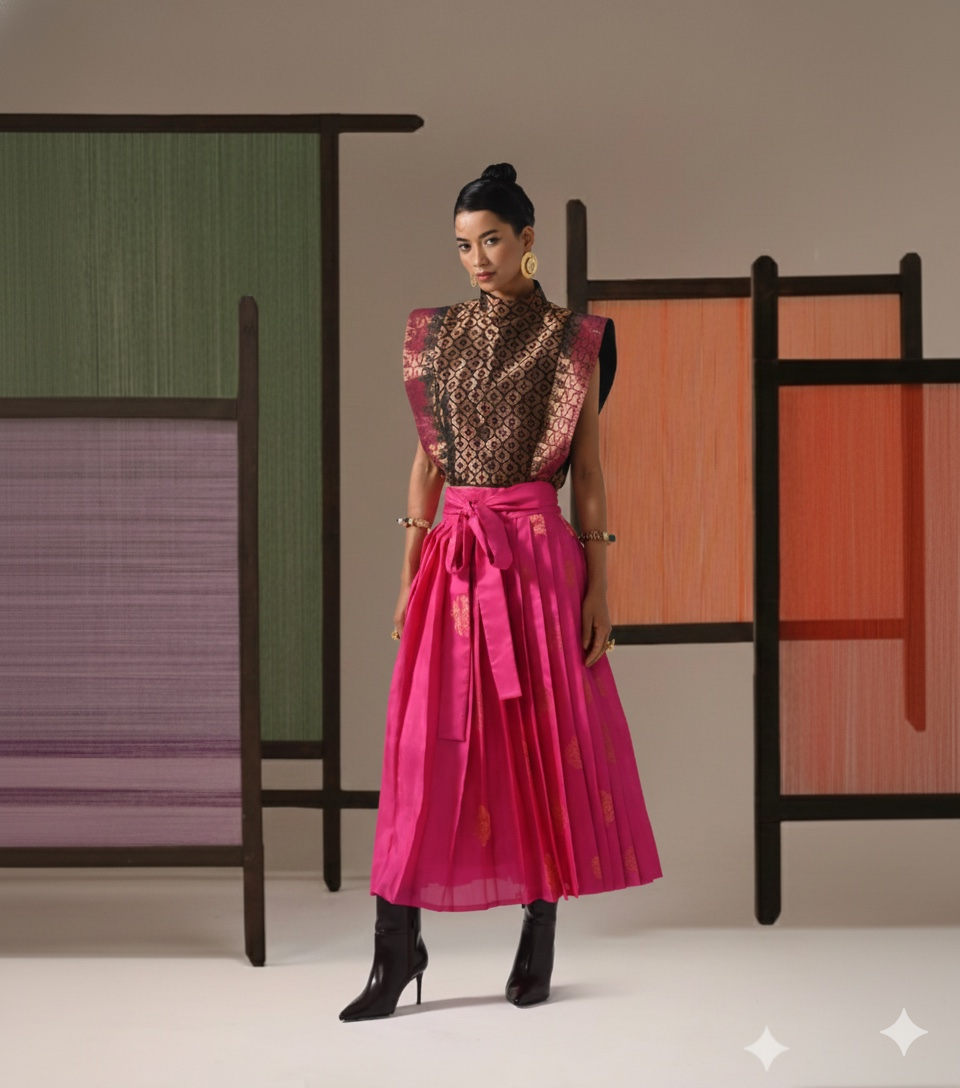
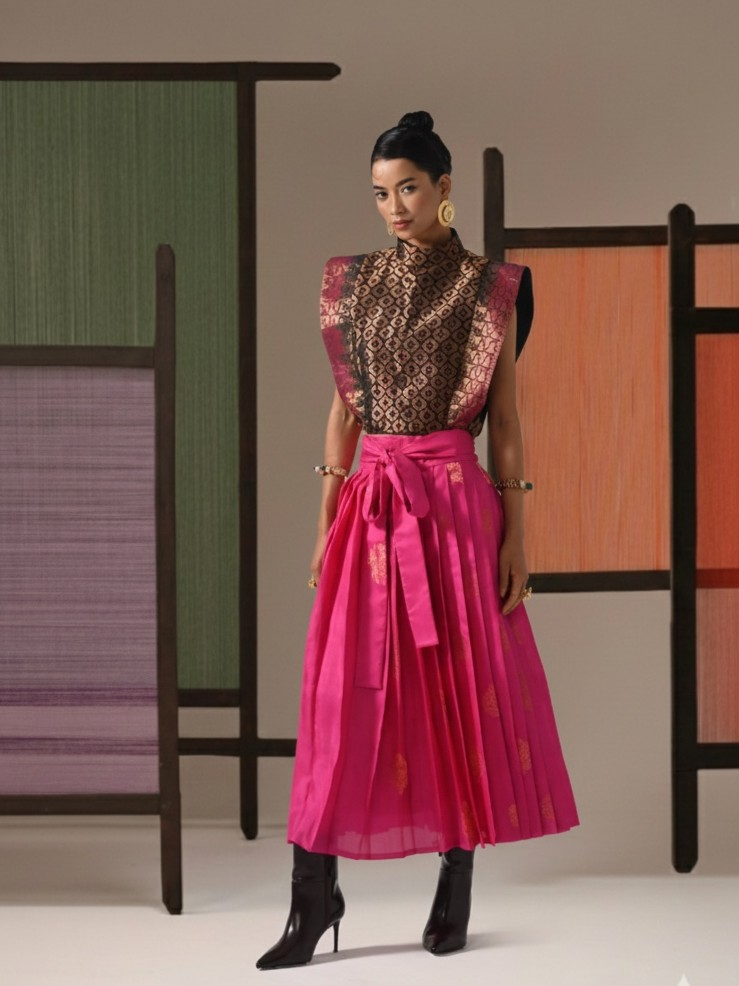
update

diff --git a/client/src/pages/StyleCollection.jsx b/client/src/pages/StyleCollection.jsx
@@ -8,9 +8,9 @@ import dresses from "../assets/images/dresses.webp";
 import skirtnpants from "../assets/images/skirtndtrouser.jpg";
 import sarees from "../assets/images/saree.jpg";
 import jacketnblazers from "../assets/images/jacket&blazer.jpg";
-import blazers from "../assets/images/blazers.webp";
+import blazers from "../assets/images/blazers1.jpg";
 // import pants from "../assets/images/pants.jpg";
-import ikkatsilkcorset from "../assets/images/ikkatsilkcorset.webp";
+import ikkatsilkcorset from "../assets/images/ikkatsilkcorset1.jpg";
 
 /* ------------------------------
    Subcategories (Luxury Styles)
